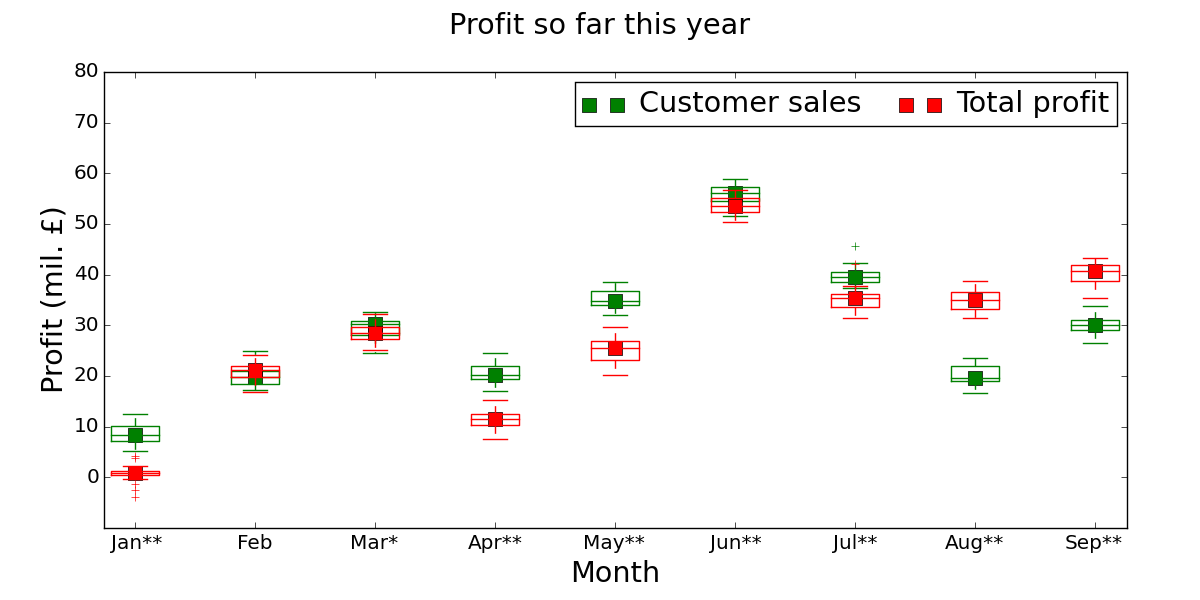
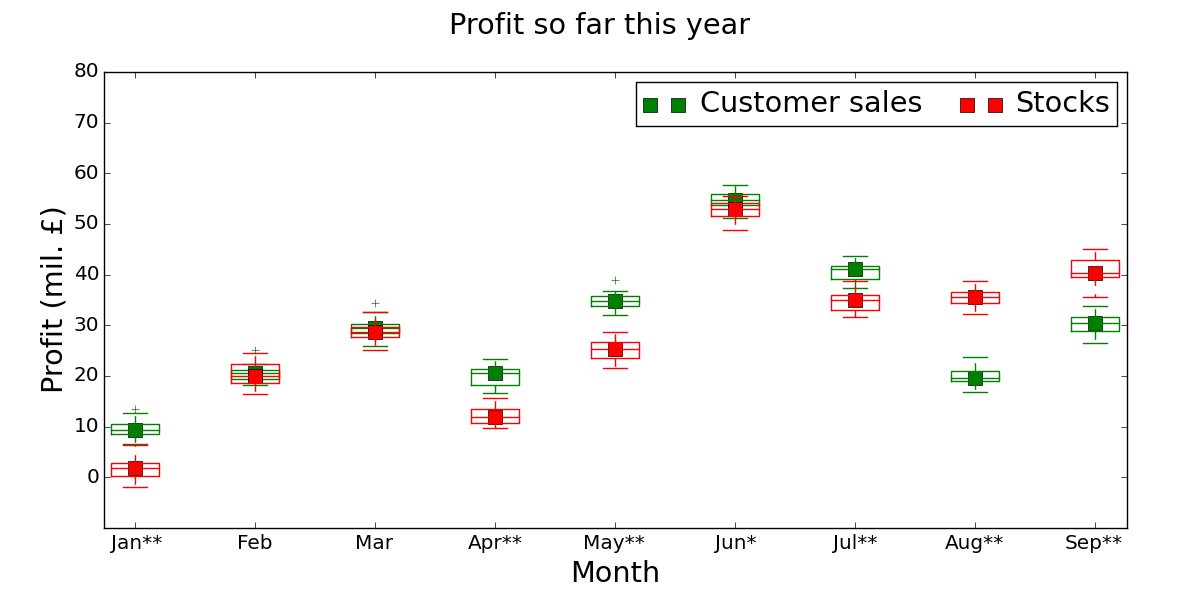
Line plots done

diff --git a/python/pyCreeper/crGraphs.py b/python/pyCreeper/crGraphs.py
@@ -66,7 +66,7 @@ class LEGEND_POSITION(Enum):
 @unique
 class GRID_TYPE(Enum):
     """
-    Members: BEST, UPPER_RIGHT, UPPER_LEFT, LOWER_LEFT, LOWER_RIGHT, RIGHT, CENTER_LEFT, CENTER_RIGHT, LOWER_CENTER, UPPER_CENTER, CENTER
+    Members: NONE, FULL, HORIZONTAL, VERTICAL, MAJOR, MAJOR_HORIZONTAL, MAJOR_VERTICAL, MINOR, MINOR_HORIZONTAL, MINOR_VERTICAL
     """
     NONE = 0
     FULL = 1
@@ -88,10 +88,9 @@ def createLinePlot(data_,
                 title_="", xLabel_ = "", yLabel_ = "", xTickLabels_=[], legendLabels_ = [], numOfLegendColumns_ = 2, legendPosition_=LEGEND_POSITION.BEST, markers_ = [], colors_ = [],
                 showBoxPlots_=False, boxPlotWidth_=-1, showConfidenceIntervals_=False, doWilcoxon_=False,
                 lineWidth_ = 2, lineStyles_ = [], markerSize_=10, gridType_=GRID_TYPE.FULL,
-                xMin_=-INVALID_VALUE,xMax_=-INVALID_VALUE, xAxisGroupSize_ = 0, yMin_=-INVALID_VALUE, yMax_=-INVALID_VALUE, yTicksStep_ = 0, yTicksStepMultiplier_ = 1,
+                xMin_=INVALID_VALUE,xMax_=INVALID_VALUE, xAxisGroupSize_ = 0, yMin_=INVALID_VALUE, yMax_=INVALID_VALUE, yTicksStep_ = 0, yTicksStepMultiplier_ = 1,
                 titleFontSize_=INVALID_VALUE, labelFontSize_ = INVALID_VALUE, tickFontSize_ = INVALID_VALUE, legendFontSize_ = INVALID_VALUE, size_=(12,6),
                 filePath_ = "", renderFigure_=True, figure_=None, subPlot_=111):
-
 
     """
 
@@ -107,41 +106,42 @@ def createLinePlot(data_,
 
         crGraphs.createLinePlot(profitData);
 
+    :param `data_`: A 2D or a 3D list of numbers. The 0th dimension represents individual lines. The 1st dimension represents data points on the line, ordered by x coordinate. Optional 3rd dimension is a list of values that each data point consists of. A data point is then a median of that list
+    :param `title_`: (optional, default = "") The figure title
+    :param `xLabel_`: (optional, default = "") Label of the x-axis
+    :param `yLabel_`: (optional, default = "") Label of the y-axis
+    :param `xTickLabels_`: (optional, default = []) A 1D list of tick labels for the x-axis. Must be the same length as the 1st dimension of `data_`, i.e., each data point must have a corresponding `xTickLabel`
+    :param `legendLabels_`: (optional, default = []) A 1D list of labels for the individual plot lines. Must be the same length as the 0th dimension of `data_`, i.e., each plot line must have a corresponding `legendLabel`
+    :param `numOfLegendColumns_`: (optional, default = 2) A int number of columns in the legend
+    :param `legendPosition_`: (optional, default = `LEGEND_POSITION.BEST`) A :class:`.LEGEND_POSITION` enum member
+    :param `markers_`: (optional, default = []) A 1D list of markers for the plot lines. If a corresponding marker for a plot line is not specified, a marker from `DEFAULT_MARKERS` is used
+    :param `colors_`: (optional, default = []) A 1D list of colors for the plot lines. If a corresponding color for a plot line is not specified, a marker color is used
+    :param `showBoxPlots_`: (optional, default = False) A boolean that specified whether to show box plots around data points. If True, `data_` must be a 3D list
+    :param `boxPlotWidth_`: (optional, default = -1) A float that specified width of each box plot. If -1, box plot width is calculated automatically
+    :param `showConfidenceIntervals_`: (optional, default = False) A boolean that specified whether to error bars around data points. If True, `data_` must be a 3D list
+    :param `doWilcoxon_`: (optional, default = False) A boolean that specified whether to perform `Wilcoxon signed-rank test <http://en.wikipedia.org/wiki/Wilcoxon_signed-rank_test>`_ between 2 plot lines. If True, the \* notation is used next to a tick label on the x-axis where there is significant difference with p=0.05. The \*\* notation is used when there is a significant different with p=0.01. This test can only be performed when `data_` has length of 2 and is a 3D list, i.e., if it containts data for 2 plot lines and each data point represents a list of values
+    :param `lineWidth_`: (optional, default = 2) Width of the plot lines.
+    :param `lineStyles_`: (optional, default = []) A 1D list of line styles for the plot lines. If a corresponding style for a plot line is not specified, a solid line is displayed
+    :param `markerSize_`: (optional, default = 10) Size of the plot markers
+    :param `gridType_`: (optional, default = `GRID_TYPE.FULL`) A :class:`.GRID_TYPE` enum member
+    :param `xMin_`: (optional, default = `INVALID_VALUE`) Minimum value shown on the x-axis. If set to `INVALID_VALUE`, x-axis is displayed to fit the data
+    :param `xMax_`: (optional, default = `INVALID_VALUE`) Maximum value shown on the x-axis. If set to `INVALID_VALUE`, x-axis is displayed to fit the data
+    :param `xAxisGroupSize_`: (optional, default = 0) The number of data points that are joined by lines when they are next to each other on the x-axis. If set to 0, all data points are joined together. If set to > 0, groups of data points appear, with no joining lines between data points from different groups.
+    :param `yMin_`: (optional, default = `INVALID_VALUE`) Minimum value shown on the y-axis. If set to `INVALID_VALUE`, y-axis is displayed to fit the data
+    :param `yMax_`: (optional, default = `INVALID_VALUE`) Maximum value shown on the y-axis. If set to `INVALID_VALUE`, y-axis is displayed to fit the data
+    :param `yTicksStep_`: (optional, default = 0) A number that represents the different between each tick on the y-axis. If set to 0, y-axis is displayed to fit the data
+    :param `yTicksStepMultiplier_`: (optional default = 1) A number by which each tick on the y axis is multiplied by.
+    :param `titleFontSize_`: (optional, default = TITLE_FONT_SIZE) Font size of the title
+    :param `labelFontSize_`: (optional, default = LABEL_FONT_SIZE) Font size of the axis and color bar labels
+    :param `tickFontSize_`: (optional, default = TICK_FONT_SIZE) Font size of axis ticks and of values inside the plot
+    :param `legendFontSize_`: (optional, default = LABEL_FONT_SIZE) Font size of the legend
+    :param `size_`: (optional, default = (8,6)) The figure size
+    :param `filePath_`: (optional, default = "") If not empty, the figure will be saved to the file path specified. If empty, the figure will be displayed on screen instead.
+    :param `renderFigure_`: (optional, default = True) If false, the figure will not be displayed or printed. Set to False when putting multiple figures together via the `figure_` parameter.
+    :param `figure_`: (optional, default = None) If not None, the figure will be created into this figure (pylab.figure)
+    :param `subPlot_`: (optional, default = 111) The subplot id of where to place the graph to
 
-
-
-    Parameters:
-    ---------------------------------------
-
-    - data: dimension 1: line index. Dimension 2: values in those lines. Optional dim 3: list of values for 1 data point.
-    - xTickData must be 1D array of scalars, which is why we need xTickLabels as well
-
-    - legendPosition_ : a :class:`.LEGEND_POSITION` enum member
-
-
-    doWilcoxon_: Set to true to put asterix when the difference of 2 means is significant, based on the Wilcoxon signed-rank test (http://en.wikipedia.org/wiki/Wilcoxon_signed-rank_test)
-    yTicksStep_ : If > 0, the yticks will be changed so that each yTicksStep_ value is shown
-    yTicksStepMultiplier_: if yTicksStep_>0, additionally this parameter specified how the yTicksStep_ is multiplied when shown on the graph.
-    xAxisGroupSize_: if > 0, specifies how many points along the X axis will be linked by a line. E.g if xAxisGroupSize_ = 3, there will be a gap in the line between each 3rd,6th,9th,.. and 4th,7th,10th,.. point.
-
-    Example: box plots next to each other:
-    ---------------------------------------
-    If we have a parameter value we vary and a list of values for each parameter (e.g. from different runs), we
-    can plot box plots next to each other and show the parameter value along the X axis:
-    groups = [1,2,3,4,5];
-    yData = [[dataVals1,dataVals2,dataVals3,dataVals4,dataVals5]];
-    createPlot(groups,yData);
-
-    Example multiple box plots on top of each other:
-    ------------------------------------------------
-    For example for box plots, if we have 3 groups (plotted along x axis, where group is just a parameter)
-    and 2 parameter values that we want to compare, we want to plot for each group
-    2 box plots one above another. Then the box plots are connected between groups.
-
-    groups = [10,30,50];
-    yData = [   [data_10_vals1, data_30_vals1,data_50_vals1],
-                [data_10_vals2, data_30_vals2,data_50_vals2] ];
-    createPlot(groups,yData,boxPlots_=True);
+    :return: `pylab.figure` for the plot
 
     """
 
@@ -154,6 +154,9 @@ def createLinePlot(data_,
         xTickLabels_ = range(len(data_[0]));
 
     crHelpers.checkListsHaveTheSameLength(data_[0], xTickLabels_, "xTickLabels_");
+
+    if (len(legendLabels_) > 0):
+        crHelpers.checkListsHaveTheSameLength(data_, legendLabels_, "legendLabels_");
 
     crHelpers.checkVariableDataType(legendPosition_, LEGEND_POSITION);
     crHelpers.checkVariableDataType(gridType_, GRID_TYPE);
@@ -179,14 +182,7 @@ def createLinePlot(data_,
 
 
     #-- create the figure
-    yStretch = 1.05;
-    numOfLegendRows = math.ceil(len(legendLabels_) / numOfLegendColumns_);
-
-    #if (numOfLegendRows > 0):
-        #yStretch = 0.90 - numOfLegendRows*0.1;
-
-    fig, ax = createFigure(size_, title_, figure_, subPlot_, xLabel_, yLabel_, titleFontSize_, labelFontSize_, tickFontSize_, 1.2, yStretch);
-
+    fig, ax = createFigure(size_, title_, figure_, subPlot_, xLabel_, yLabel_, titleFontSize_, labelFontSize_, tickFontSize_, 1.2, 1.05);
 
     #-- prepare x tick data, which has to be scalars
     xTickData = [];
@@ -394,6 +390,11 @@ def createLinePlot(data_,
 
     #-- show legend
     if (len(legendLabels_) > 0):
+
+
+        def flip(items, ncol):
+            return itertools.chain(*[items[i::ncol] for i in range(ncol)])
+
         legendItems = [];
         for g in range(len(plots)):
             legendItems.append(plots[g][0]);
@@ -437,18 +438,18 @@ def createMatrixPlot(data_=[[],[]],
 
     :param `data_`: a 2D list of values, where the 0th dimension runs along the x axis and the 1st dimension along y axis, so [0,0] in the list specified a value for the bottom left square
     :param `title_`: (optional, default = "") The figure title
-    :param xLabel_: (optional, default = "") Label of the x-axis
-    :param yLabel_: (optional, default = "") Label of the y-axis
-    :param xTickLabels_: (optional, default = []) Labels of the individual ticks of the x-axis. If empty, values 0-N are displayed
-    :param yTickLabels_: (optional, default = []) Labels of the individual ticks of the y-axis. If empty, values 0-N are displayed
-    :param colorBarLabel_: (optional, default = "") Label of color bar, displayed vertically
-    :param colorMap_: (optional, default = "summer") A python.colormap isntance to use for the matrix plot
-    :param minValue_: (optional, default = `INVALID_VALUE`) Minimum float value that the color map considers. If set to INVALID_VALUE, the value is automatically calculated from `data_`
-    :param maxValue_: (optional, default = `INVALID_VALUE`) Maximum float value that the color map considers. If set to INVALID_VALUE, the value is automatically calculated from `data_`
-    :param annotateValues_: (optional, default = False) If True, data values will be displayed in the matrix plot
-    :param annotationStringAfter_: (optional, default = "") A string to append after each annotation value
-    :param annotationValues_: (optional, default = [[],[]]) A 2D list of annotations in the matrix plot. If non-empty, must have the same dimensions as `data_`
-    :param roundAnnotatedValues_: (optional, default = False) If True and if `annotationValues_` is empty, annotation numbers will be rounded
+    :param `xLabel_`: (optional, default = "") Label of the x-axis
+    :param `yLabel_`: (optional, default = "") Label of the y-axis
+    :param `xTickLabels_`: (optional, default = []) Labels of the individual ticks of the x-axis. If empty, values 0-N are displayed
+    :param `yTickLabels_`: (optional, default = []) Labels of the individual ticks of the y-axis. If empty, values 0-N are displayed
+    :param `colorBarLabel_`: (optional, default = "") Label of color bar, displayed vertically
+    :param `colorMap_`: (optional, default = "summer") A python.colormap isntance to use for the matrix plot
+    :param `minValue_`: (optional, default = `INVALID_VALUE`) Minimum float value that the color map considers. If set to INVALID_VALUE, the value is automatically calculated from `data_`
+    :param `maxValue_`: (optional, default = `INVALID_VALUE`) Maximum float value that the color map considers. If set to INVALID_VALUE, the value is automatically calculated from `data_`
+    :param `annotateValues_`: (optional, default = False) If True, data values will be displayed in the matrix plot
+    :param `annotationStringAfter_`: (optional, default = "") A string to append after each annotation value
+    :param `annotationValues_`: (optional, default = [[],[]]) A 2D list of annotations in the matrix plot. If non-empty, must have the same dimensions as `data_`
+    :param `roundAnnotatedValues_`: (optional, default = False) If True and if `annotationValues_` is empty, annotation numbers will be rounded
     :param `titleFontSize_`: (optional, default = TITLE_FONT_SIZE) Font size of the title
     :param `labelFontSize_`: (optional, default = LABEL_FONT_SIZE) Font size of the axis and color bar labels
     :param `tickFontSize_`: (optional, default = TICK_FONT_SIZE) Font size of axis ticks and of values inside the plot
@@ -458,7 +459,7 @@ def createMatrixPlot(data_=[[],[]],
     :param `figure_`: (optional, default = None) If not None, the figure will be created into this figure (pylab.figure)
     :param `subPlot_`: (optional, default = 111) The subplot id of where to place the graph to
 
-    :return: pylab.figure for the graph
+    :return: `pylab.figure` for the plot
     """
 
 
@@ -565,7 +566,7 @@ def createPieChart(data_=[], itemLabels_=[],
     :param `figure_`: (optional, default = None) If not None, the figure will be created into this figure (pylab.figure)
     :param `subPlot_`: (optional, default = 111) The subplot id of where to place the graph to
 
-    :return: pylab.figure
+    :return: `pylab.figure` for the plot
     """
 
     #-- test and pre-set data
@@ -705,7 +706,5 @@ def replaceInvalidWithDefaultValue(value_, defaultValue_):
         return value_;
 
 
-def flip(items, ncol):
-    return itertools.chain(*[items[i::ncol] for i in range(ncol)])
 
 

diff --git a/python/examples/linePlots.py b/python/examples/linePlots.py
@@ -4,7 +4,7 @@ crGraphs.BASE_FILE_PATH = "../../exampleOutput/";
 
 def example1_simple(saveFiles_):
     """
-    In this example, a single-line plot is created
+    In this example, a single-line plot is created:
 
     .. image:: ../exampleOutput/linePlot_simple.png
         :scale: 50%
@@ -26,7 +26,7 @@ def example1_simple(saveFiles_):
 def example2_multiple(saveFiles_):
     """
     In this example, a multi-line plot is created and its custom colours and markers are specified.
-    The legend is shown underneath the graph.
+    The legend is shown underneath the graph:
 
     .. image:: ../exampleOutput/linePlot_multi.png
         :scale: 50%
@@ -48,15 +48,15 @@ def example2_multiple(saveFiles_):
     if (saveFiles_):
         filePath = "linePlot_multi.png";
     crGraphs.createLinePlot(profitData, "Profit so far this year", xTickLabels_=months, xLabel_="Month", yLabel_="Profit (mil. £)", yMin_=0, yMax_=100,
-                            markers_ = ['o','o','s'], colors_=['g','r','b'], legendLabels_=legendLabels, filePath_=filePath);
+                            markers_ = ['o','o','s'], colors_=['g','c','r'], legendLabels_=legendLabels, filePath_=filePath);
 
 
 def example3_errorBars(saveFiles_):
     """
     In this example, a multi-line plot with error bars is created, with horizontal-only grid shown and with
-    data point connected together based on their x coordinates.
+    data points connected together based on which year quarter they belong to:
 
-    .. image:: ../exampleOutput/linePlot_errorBars.png
+    .. image:: ../exampleOutput/linePlot_errorBars2.png
         :scale: 50%
 
     :param saveFiles_: Boolean if True, figures are saved, if False, figures are displayed
@@ -77,7 +77,8 @@ def example3_errorBars(saveFiles_):
     if (saveFiles_):
         filePath = "linePlot_errorBars.png";
     crGraphs.createLinePlot(profitData, "Profit so far this year", xTickLabels_=months, xLabel_="Month", yLabel_="Profit (mil. £)", yMin_=-20, yMax_=120,
-                            markers_ = ['o','o','s'], colors_=['g','r','b'], legendLabels_=legendLabels, showConfidenceIntervals_=True, xAxisGroupSize_=3, gridType_=crGraphs.GRID_TYPE.HORIZONTAL,
+                            markers_ = ['o','o','s'], colors_=['g','c','r'], legendLabels_=legendLabels, showConfidenceIntervals_=True, xAxisGroupSize_=3,
+                            numOfLegendColumns_=3, legendPosition_=crGraphs.LEGEND_POSITION.UPPER_LEFT, gridType_=crGraphs.GRID_TYPE.HORIZONTAL,
                             filePath_=filePath);
 
 def example4_boxPlots(saveFiles_):
@@ -89,7 +90,7 @@ def example4_boxPlots(saveFiles_):
     A \* notation is used next to a month where there is significant difference with p=0.05.
     A \*\* notation is used when there is a significant different with p=0.01.
 
-    .. image:: ../exampleOutput/linePlot_boxPlots.png
+    .. image:: ../exampleOutput/linePlot_boxPlots2.png
         :scale: 50%
 
     :param saveFiles_: Boolean if True, figures are saved, if False, figures are displayed
@@ -102,7 +103,7 @@ def example4_boxPlots(saveFiles_):
     #-- change each data point above to become a list with a normal distribution instead, with median of profitData[i][j]
     profitData = [ [ list(random.standard_normal(20)*2 + profitData[i][j]) for j in range(len(profitData[i])) ] for i in range(len(profitData))];
 
-    legendLabels = ['Customer sales', 'Stocks', 'Total profit'];
+    legendLabels = ['Customer sales', 'Stocks'];
     months = ["Jan", "Feb", "Mar", "Apr", "May", "Jun", "Jul", "Aug", "Sep"];
 
     filePath = "";
@@ -121,3 +122,4 @@ if __name__ == "__main__":
     example2_multiple(saveFiles);
     example3_errorBars(saveFiles);
     example4_boxPlots(saveFiles);
+

diff --git a/doc/index.rst b/doc/index.rst
@@ -1,10 +1,18 @@
+
+
+.. image:: pyCreeperLogo.png
+    :width: 220 px
+    :align: left
+
 ############################
 pyCreeper
 ############################
 
-Welcome! pyCreeper is a python library that lets you create pretty graphs in python with one-line function calls.
+**Welcome! pyCreeper is a python library that lets you create pretty graphs in python with one-line function calls.**
 
-Download pyCreeper from GitHub: `https://github.com/Elendurwen/pyCreeper <https://github.com/Elendurwen/pyCreeper>`_
+The main purpose of pyCreeper is to wrap tens of lines of python code, required to produce graphs that look good for a publication, into functions. It takes away your need to understand various quirks of matplotlib and gives you back ready-to-use and well-documented code.
+
+**Download pyCreeper from GitHub:** `https://github.com/Elendurwen/pyCreeper <https://github.com/Elendurwen/pyCreeper>`_
 
 
 Contents
@@ -23,7 +31,7 @@ About
 Developed by `Lenka Pitonakova <http://lenkaspace.net/>`_ [`email <mailto:contact@lenkaspace.net>`_ `twitter <http://twitter.com/l_pitonakova>`_ `linkedIn <http://uk.linkedin.com/pub/lenka-pitonakova/b6/a61/54b>`_]
 mostly as a part of the project `Design Patterns for Robot Swarms <http://lenkaspace.net/lab/swarmSystems/designPatternsRobotSwarms>`_
 
-
+Related to this library is `Creeper <http://lenkaspace.net/index.php/code/java/creeper>`_, a Java framework for coding multi-agent simulations.
 
 
 Indices and tables

diff --git a/doc/supportedGraphs.rst b/doc/supportedGraphs.rst
@@ -3,6 +3,31 @@ Supported figure types
 ===================================================
 
 ----------------------------
+Box plots
+----------------------------
+.. figure:: ../exampleOutput/linePlot_boxPlots2.png
+    :scale: 100%
+
+    Function :func:`pyCreeper.crGraphs.createLinePlot`
+
+    Code examples:
+    :func:`examples.linePlots.example4_boxPlots`
+
+----------------------------
+Line plots
+----------------------------
+.. figure:: ../exampleOutput/linePlot_errorBars2.png
+    :scale: 100%
+
+    Function :func:`pyCreeper.crGraphs.createLinePlot`
+
+    Code examples:
+    :func:`examples.linePlots.example1_simple`
+    :func:`examples.linePlots.example2_multiple`
+    :func:`examples.linePlots.example3_errorBars`
+
+
+----------------------------
 Matrix plots
 ----------------------------
 .. figure:: ../exampleOutput/matrixPlot_fullAnnotations.png

diff --git a/doc/api.rst b/doc/api.rst
@@ -8,12 +8,16 @@ The most useful functions
 
 Creating figures:
 
+* :func:`pyCreeper.crGraphs.createLinePlot`
 * :func:`pyCreeper.crGraphs.createMatrixPlot`
 * :func:`pyCreeper.crGraphs.createPieChart`
 
 Working with lists:
 
+* :func:`pyCreeper.crData.getMaxValueInAList`
+* :func:`pyCreeper.crData.getMinValueInAList`
 * :func:`pyCreeper.crData.getNumberOfListDimensions`
+
 
 --------------------
 crGraphs

diff --git a/doc/examples.rst b/doc/examples.rst
@@ -2,6 +2,13 @@
 Code examples
 ===================================================
 
+Line plots
+--------------------------------
+
+.. automodule:: examples.linePlots
+    :members:
+    :undoc-members:
+
 Matrix plots
 --------------------------------
 
